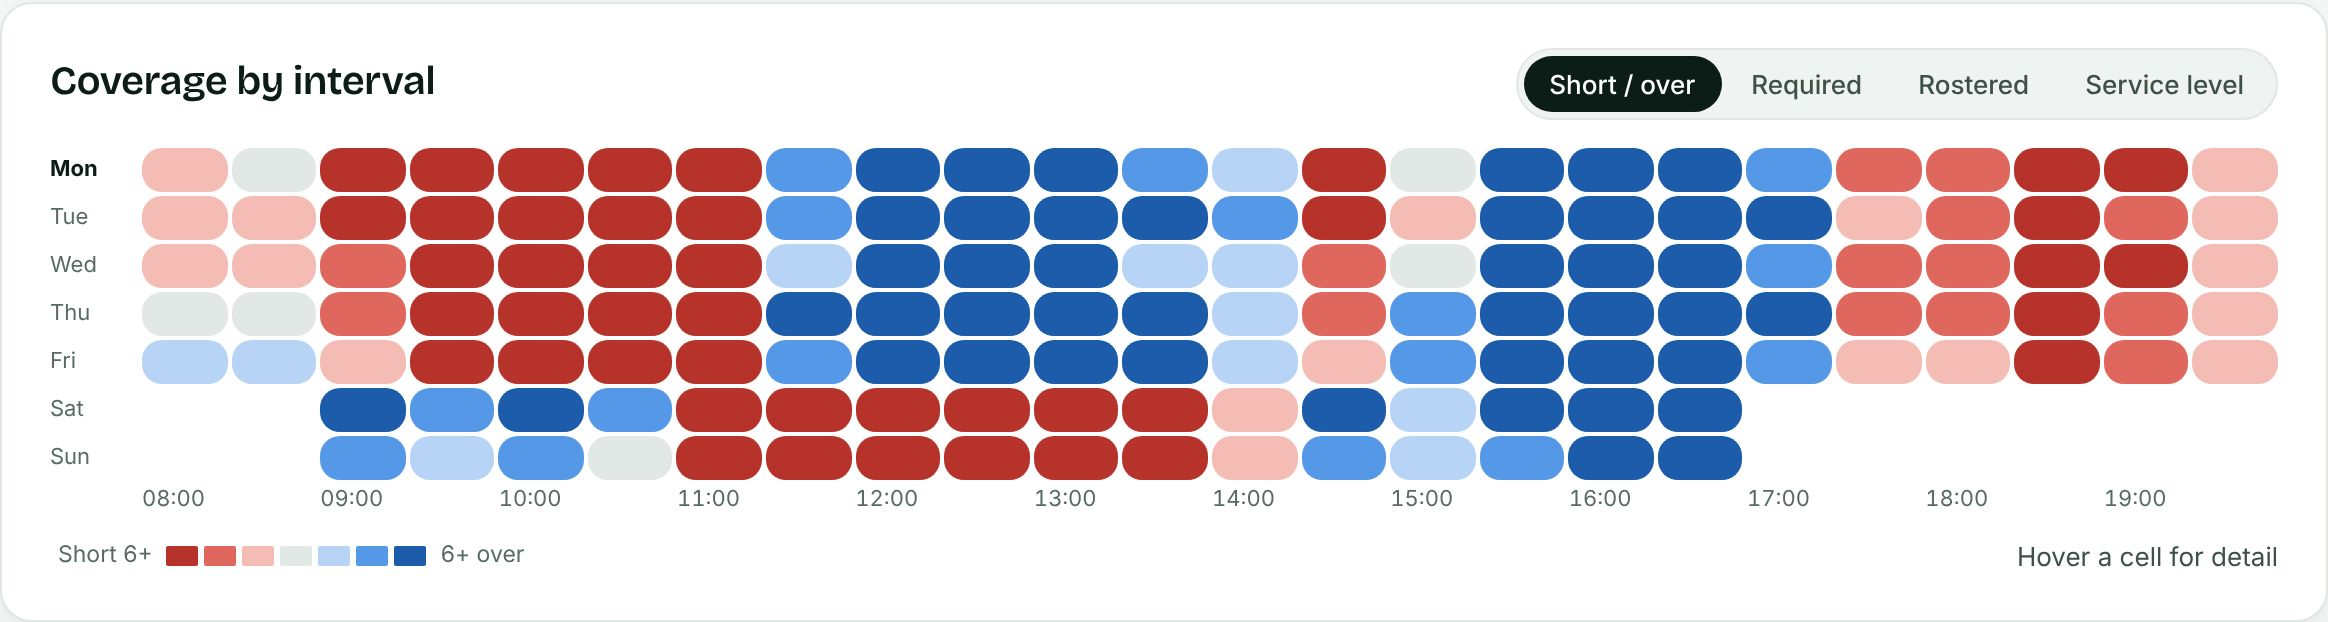
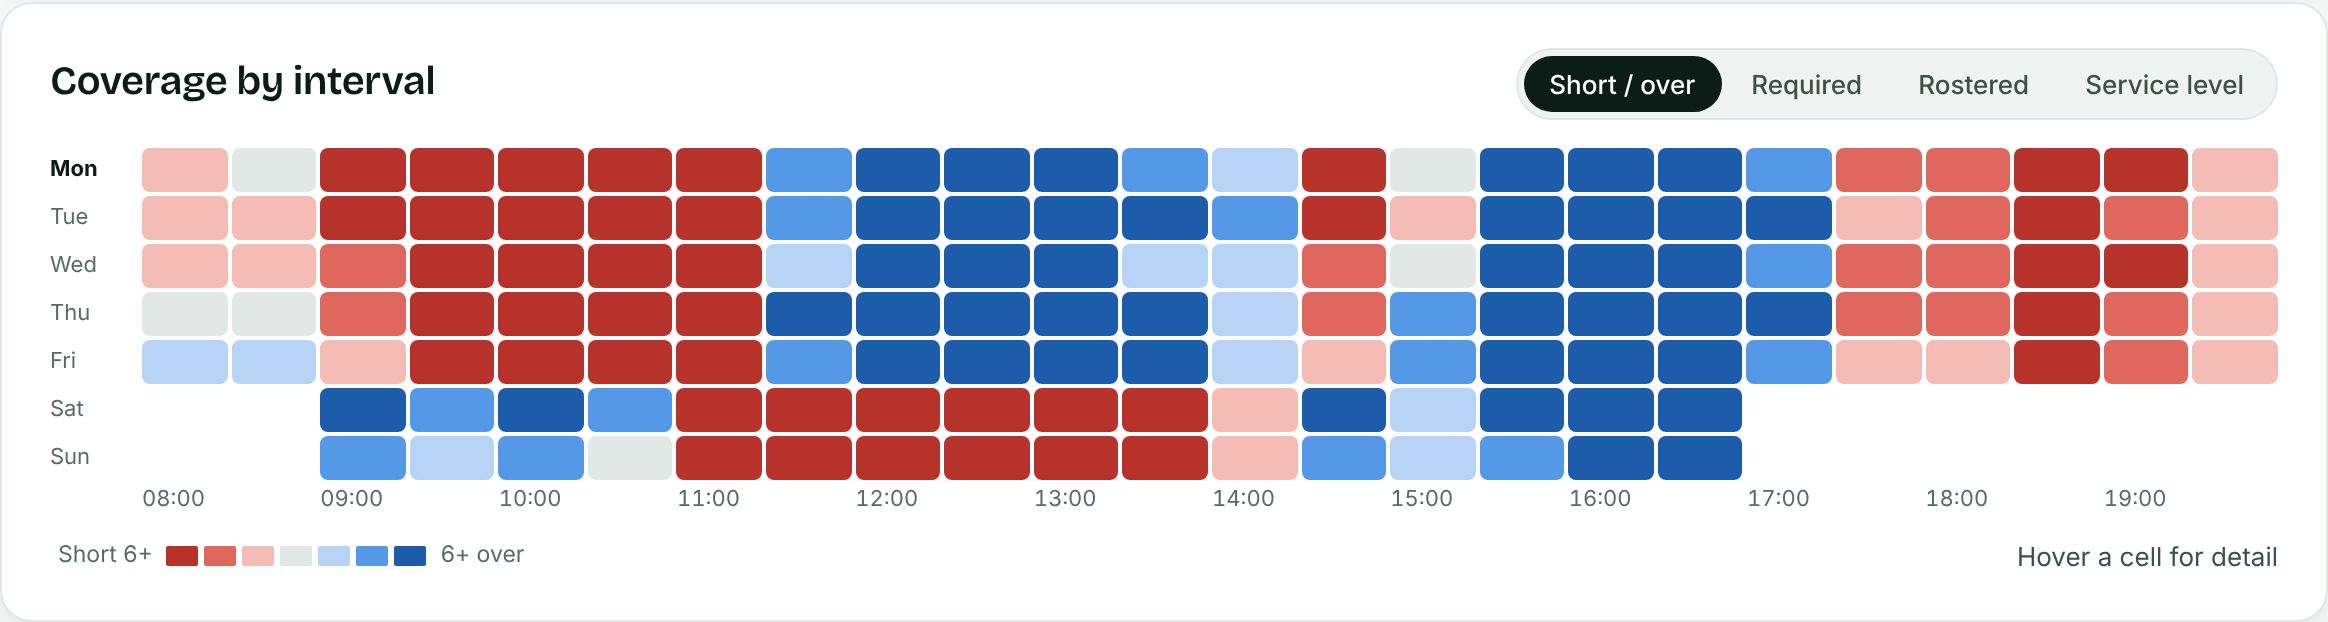
Erlang Desk: visual fixes after the redesign
- Heatmap cells, legend keys, timeline bars and checklist ticks are
  square-cornered again; the large radius had turned them into pills.
- Dates and numbers always read the UK way (16 Nov 2026), whatever the
  browser's locale.
- A bias that rounds to zero shows 0.0%, never '-0.0%'.
- Long names in dropdowns end with an ellipsis.
- Tab switches stay on one line and scroll inside their panel on a phone;
  the phone tab bar's underline is straight.
- Change register: Driver and Status are left-aligned; unit column
  headings are capitalised.
- Landing: shorter label above the headline on phones; product captures
  regenerated.

Claude-Session: https://claude.ai/code/session_01NjFB6V3m4JFRtAFNWHL5Fn

diff --git a/erlang-desk/src/styles.css b/erlang-desk/src/styles.css
@@ -170,7 +170,7 @@ h1 { font-size: 38px; line-height: 1.06; font-weight: 500; letter-spacing: -0.03
 h2 { font-size: 20px; line-height: 1.25; font-weight: 600; letter-spacing: -0.015em; font-family: var(--display); font-variant-numeric: lining-nums tabular-nums; }
 h3 { font-size: 14.5px; line-height: 1.35; font-weight: 600; }
 p { margin: 0; }
-code { font: 12.5px var(--mono); background: var(--surface-2); border: 1px solid var(--rule); padding: 0 4px; border-radius: var(--r-s); }
+code { font: 12.5px var(--mono); background: var(--surface-2); border: 1px solid var(--rule); padding: 0 4px; border-radius: 5px; }
 .muted { color: var(--ink-2); }
 .faint { color: var(--muted); }
 .small { font-size: 13px; }
@@ -335,13 +335,13 @@ details p { margin-top: 10px; color: var(--ink-2); max-width: 70ch; }
 .legend span { display: inline-flex; align-items: center; gap: 7px; }
 .key-line { width: 16px; height: 2px; display: inline-block; }
 .key-band { width: 14px; height: 10px; display: inline-block; opacity: 0.25; }
-.key-block { width: 10px; height: 10px; display: inline-block; border-radius: var(--r-s); }
+.key-block { width: 10px; height: 10px; display: inline-block; border-radius: 3px; }
 .tooltip { position: absolute; pointer-events: none; z-index: 5; background: var(--surface); border: 1px solid var(--rule); border-radius: var(--r-s); padding: 9px 11px; font-size: 12.5px; min-width: 160px; box-shadow: var(--shadow); }
 .tooltip .tt-title { font-size: 12px; font-weight: 600; color: var(--muted); margin-bottom: 6px; }
 .tooltip .tt-row { display: flex; align-items: center; gap: 8px; justify-content: space-between; padding: 1px 0; }
 .tooltip .tt-row b { font-weight: 650; font-variant-numeric: tabular-nums; }
 .heat { display: grid; gap: 2px; font-size: 11px; }
-.heat .cell { height: 22px; border-radius: var(--r-s); }
+.heat .cell { height: 22px; border-radius: 4px; }
 .heat .lab { color: var(--muted); display: flex; align-items: center; font-size: 11px; font-variant-numeric: tabular-nums; }
 .scale { display: flex; align-items: center; gap: 3px; font-size: 11.5px; color: var(--muted); }
 .scale i { width: 16px; height: 10px; display: inline-block; border-radius: 1px; }
@@ -453,9 +453,9 @@ textarea:focus-visible { outline: 2px solid var(--accent); outline-offset: 2px; 
 input.slider { padding: 0; border: 0; background: none; height: 22px; accent-color: var(--accent); margin-top: 2px; }
 .status.even { color: var(--muted); }
 .spark { display: block; overflow: visible; }
-.timeline { position: relative; height: 12px; min-width: 160px; border-radius: var(--r-s); background: var(--surface-2); border: 1px solid var(--rule); }
+.timeline { position: relative; height: 12px; min-width: 160px; border-radius: 4px; background: var(--surface-2); border: 1px solid var(--rule); }
 .timeline i { position: absolute; top: 0; bottom: 0; width: 1px; background: var(--rule-2); }
-.timeline b { position: absolute; top: 1px; bottom: 1px; border-radius: var(--r-s); background: var(--accent); opacity: 0.75; }
+.timeline b { position: absolute; top: 1px; bottom: 1px; border-radius: 3px; background: var(--accent); opacity: 0.75; }
 .attention { list-style: none; margin: 0; padding: 0; }
 .attention li { display: grid; grid-template-columns: 22px minmax(0, 1fr) minmax(0, 1.9fr) 96px 112px 150px; gap: 14px; align-items: center; padding: 12px 0; border-bottom: 1px solid var(--rule); }
 .attention .who, .attention .what { display: flex; flex-direction: column; gap: 2px; min-width: 0; }
@@ -562,7 +562,7 @@ select:disabled, input:disabled { opacity: 0.55; cursor: not-allowed; }
 .tour .btn.link { color: var(--board-muted); }
 .tour-top { display: flex; justify-content: space-between; align-items: center; }
 .tour-dots { display: flex; gap: 5px; margin: 12px 0 10px; }
-.tour-dots i { width: 18px; height: 3px; border-radius: var(--r-s); background: var(--board-rule); }
+.tour-dots i { width: 18px; height: 3px; border-radius: 2px; background: var(--board-rule); }
 .tour-dots i.on { background: #fff; }
 @media print { .tour { display: none; } }
 
@@ -610,7 +610,7 @@ td.bad { color: var(--critical-ink); }
 .checklist li { display: grid; grid-template-columns: 22px minmax(0, 1fr); gap: 10px; align-items: baseline; padding: 9px 0; border-top: 1px solid var(--rule); }
 .checklist li:first-child { border-top: 0; padding-top: 0; }
 .checklist li:last-child { padding-bottom: 0; }
-.checklist .tick { width: 18px; height: 18px; border: 1px solid var(--rule-2); border-radius: var(--r-s); display: grid; place-items: center; font-size: 12px; font-weight: 700; align-self: start; margin-top: 2px; }
+.checklist .tick { width: 18px; height: 18px; border: 1px solid var(--rule-2); border-radius: 5px; display: grid; place-items: center; font-size: 12px; font-weight: 700; align-self: start; margin-top: 2px; }
 .checklist li.done .tick { border-color: var(--good-ink); color: var(--good-ink); }
 .checklist li.done a { color: var(--ink-2); }
 .checklist li.next a { font-weight: 600; }
@@ -622,6 +622,12 @@ h1 strong, h2 strong { font-weight: 700; }
 .side { background: var(--surface); }
 .nav a { border-radius: var(--r-s); }
 input, select, textarea { border-radius: var(--r-s); }
+select { text-overflow: ellipsis; }
+.seg { max-width: 100%; overflow-x: auto; scrollbar-width: none; }
+.panel-head > *, .page-head > *, .main .row > * { min-width: 0; max-width: 100%; }
+.seg button { white-space: nowrap; flex: none; }
+@media (max-width: 900px) { .nav a { border-radius: 0; } }
+@media (max-width: 560px) { .hide-xs { display: none; } }
 .btn { transition: background 0.15s, border-color 0.15s, color 0.15s, transform 0.1s; }
 .btn:active { transform: translateY(1px); }
 .btn:not(.link):not(.sm) { padding: 12px 20px; }

diff --git a/erlang-desk/src/pages/ForecastPage.jsx b/erlang-desk/src/pages/ForecastPage.jsx
@@ -7,7 +7,7 @@ import { toCSV } from '../engine/csv.js'
 import { CHANNELS } from '../engine/channels.js'
 import { PageHead, Figures, Figure, SelectField, NumberField, Segmented, Panel, Locked, LoadingPage } from '../components/ui.jsx'
 import { LineChart, Legend, Heatmap } from '../components/charts.jsx'
-import { downloadText, fmtInt, fmtPct } from '../format.js'
+import { downloadText, fmtInt, fmtPct, fmtSignedPct } from '../format.js'
 import { NoServices, NeedsHistory, serviceEyebrow } from './common.jsx'
 
 function byWeek(rows, keys) {
@@ -105,7 +105,7 @@ export default function ForecastPage({ active, site, result, updateActive, repla
         <Figure label="Method" value={forecast.methodLabel} text sub={plan.method === 'auto' ? 'Chosen by backtest' : 'Chosen by you'} />
         <Figure label="Backtest accuracy" value={forecast.accuracy ? fmtPct(1 - forecast.accuracy.wape) : '–'} sub={forecast.accuracy ? `WAPE ${fmtPct(forecast.accuracy.wape)} over ${forecast.accuracy.holdoutDays} days held out` : 'Not enough history'} />
         <Figure label="Next four weeks" value={fmtInt(next4)} sub={prior4 ? `${next4 >= prior4 ? '+' : '−'}${fmtPct(Math.abs(next4 / prior4 - 1))} on the last four` : undefined} />
-        <Figure label="Bias" value={forecast.accuracy ? `${forecast.accuracy.bias >= 0 ? '+' : '−'}${fmtPct(Math.abs(forecast.accuracy.bias))}` : '–'} sub="Positive means it over-forecast" />
+        <Figure label="Bias" value={forecast.accuracy ? fmtSignedPct(forecast.accuracy.bias) : '–'} sub="Positive means it over-forecast" />
       </Figures>
 
       <Panel title="Actuals and forecast" aside={<Segmented label="Granularity" value={grain} onChange={setGrain} options={[{ value: 'daily', label: 'Daily' }, { value: 'weekly', label: 'Weekly' }]} />}>
@@ -161,7 +161,7 @@ export default function ForecastPage({ active, site, result, updateActive, repla
                   <tr key={r.method} className={r.method === forecast.method ? 'hl' : ''}>
                     <td>{r.label}</td>
                     <td>{fmtPct(1 - r.wape)}</td>
-                    <td>{r.bias >= 0 ? '+' : '−'}{fmtPct(Math.abs(r.bias))}</td>
+                    <td>{fmtSignedPct(r.bias)}</td>
                   </tr>
                 ))}
               </tbody>

diff --git a/erlang-desk/src/pages/ImpactPage.jsx b/erlang-desk/src/pages/ImpactPage.jsx
@@ -314,15 +314,15 @@ function ChangeRegister({ ws, area, ctx, update, account }) {
       <Panel title="Change register" aside={<button className="btn sm primary" type="button" onClick={add}>Add a change</button>}>
         <div className="table-wrap">
           <table>
-            <thead><tr><th>Change</th><th>Driver</th><th>Status</th><th>Peak FTE</th><th>Assessment</th></tr></thead>
+            <thead><tr><th>Change</th><th className="text">Driver</th><th className="text">Status</th><th>Peak FTE</th><th>Assessment</th></tr></thead>
             <tbody>
               {changes.map((c) => {
                 const cr = results[c.id]
                 return (
                   <tr key={c.id} className={c.id === sel.id ? 'hl' : ''} onClick={() => setSelId(c.id)} style={{ cursor: 'pointer' }}>
                     <td><button className="btn link" type="button" onClick={() => setSelId(c.id)}>{c.name}</button>{c.inMtp && <span className="faint"> · in MTP</span>}</td>
-                    <td className="faint" style={{ whiteSpace: 'normal', minWidth: 220 }}>{driverSummary(c.driver)}</td>
-                    <td>{STATUS_LABEL[c.status]}</td>
+                    <td className="faint text" style={{ minWidth: 220 }}>{driverSummary(c.driver)}</td>
+                    <td className="text">{STATUS_LABEL[c.status]}</td>
                     <td>{cr.verdict === 'saving' ? `−${fmt1(cr.savingFte)}` : fmt1(cr.peakFte)}</td>
                     <td><Verdict v={cr.verdict} /></td>
                   </tr>

diff --git a/erlang-desk/src/format.js b/erlang-desk/src/format.js
@@ -1,6 +1,12 @@
-export const fmtInt = (n) => (Number.isFinite(n) ? Math.round(n).toLocaleString() : '–')
-export const fmt1 = (n) => (Number.isFinite(n) ? n.toLocaleString(undefined, { minimumFractionDigits: 1, maximumFractionDigits: 1 }) : '–')
+export const fmtInt = (n) => (Number.isFinite(n) ? Math.round(n).toLocaleString('en-GB') : '–')
+export const fmt1 = (n) => (Number.isFinite(n) ? n.toLocaleString('en-GB', { minimumFractionDigits: 1, maximumFractionDigits: 1 }) : '–')
 export const fmtPct = (n, d = 1) => (Number.isFinite(n) ? `${(n * 100).toFixed(d)}%` : '–')
+/** A signed percentage with no "−0.0%": values that round to zero show as 0.0%. */
+export const fmtSignedPct = (n, d = 1) => {
+  if (!Number.isFinite(n)) return '–'
+  const v = Number((n * 100).toFixed(d))
+  return `${v > 0 ? '+' : v < 0 ? '−' : ''}${Math.abs(v).toFixed(d)}%`
+}
 export const fmtSec = (n) => (Number.isFinite(n) ? `${n < 10 ? n.toFixed(1) : Math.round(n)}s` : '∞')
 export function fmtCompact(n) {
   if (!Number.isFinite(n)) return '–'

diff --git a/erlang-desk/src/pages/StaffingPage.jsx b/erlang-desk/src/pages/StaffingPage.jsx
@@ -156,7 +156,7 @@ export default function StaffingPage({ active, site, result, replace, account })
         />
         <div className="table-wrap scroll-y" tabIndex={0} role="region" aria-label="Interval detail" style={{ marginTop: 18 }}>
           <table>
-            <thead><tr><th>Interval</th><th>{unit}</th><th><Term k="aht">AHT</Term></th><th>Staff</th><th>Rostered</th><th><Term k="service-level">Service level</Term></th>{isA && <th><Term k="abandonment">Abandon</Term></th>}<th><Term k="occupancy">Occupancy</Term></th></tr></thead>
+            <thead><tr><th>Interval</th><th>{unit[0].toUpperCase() + unit.slice(1)}</th><th><Term k="aht">AHT</Term></th><th>Staff</th><th>Rostered</th><th><Term k="service-level">Service level</Term></th>{isA && <th><Term k="abandonment">Abandon</Term></th>}<th><Term k="occupancy">Occupancy</Term></th></tr></thead>
             <tbody>
               {dayCols.map((iv) => (
                 <tr key={iv.time}>

diff --git a/erlang-desk/src/pages/CoveragePage.jsx b/erlang-desk/src/pages/CoveragePage.jsx
@@ -260,7 +260,7 @@ export default function CoveragePage({ active, site, result, updateActive, repla
         />
         <div className="table-wrap scroll-y" tabIndex={0} role="region" aria-label="Interval detail" style={{ marginTop: 16 }}>
           <table>
-            <thead><tr><th>Interval</th><th>{unit}</th><th>Required</th><th>On shift</th><th>Rostered (net)</th><th>Gap</th><th>Projected SL</th>{s.queueModel === 'erlangA' && <th><Term k="abandonment">Abandon</Term></th>}</tr></thead>
+            <thead><tr><th>Interval</th><th>{unit[0].toUpperCase() + unit.slice(1)}</th><th>Required</th><th>On shift</th><th>Rostered (net)</th><th>Gap</th><th>Projected SL</th>{s.queueModel === 'erlangA' && <th><Term k="abandonment">Abandon</Term></th>}</tr></thead>
             <tbody>
               {dayCols.map((iv) => (
                 <tr key={iv.time}>

diff --git a/erlang-desk/test/store.test.js b/erlang-desk/test/store.test.js
@@ -39,3 +39,18 @@ test('round-trips a normal workspace', () => {
   assert.equal(back.services[0].siteId, 'offshore')
   assert.equal(back.services[0].settings.branches, 25)
 })
+
+test('signed percentages never show a negative zero', async () => {
+  const { fmtSignedPct } = await import('../src/format.js')
+  assert.equal(fmtSignedPct(-0.0002), '0.0%')
+  assert.equal(fmtSignedPct(0), '0.0%')
+  assert.equal(fmtSignedPct(0.0372), '+3.7%')
+  assert.equal(fmtSignedPct(-0.08), '−8.0%')
+  assert.equal(fmtSignedPct(NaN), '–')
+})
+
+test('dates read the UK way whatever the browser locale', async () => {
+  const { formatDate } = await import('../src/engine/dates.js')
+  assert.equal(formatDate('2026-11-16'), '16 Nov')
+  assert.equal(formatDate('2026-11-16', { day: 'numeric', month: 'short', year: 'numeric' }), '16 Nov 2026')
+})

diff --git a/erlang-desk/src/pages/Landing.jsx b/erlang-desk/src/pages/Landing.jsx
@@ -142,7 +142,7 @@ export default function Landing({ onToggleTheme, account }) {
       <main id="main" tabIndex={-1}>
       <section className="lp-hero">
         <div className="wrap">
-          <div className="label">Workforce planning · Voice · Chat · Back office · Branch</div>
+          <div className="label">Workforce planning<span className="hide-xs"> · Voice · Chat · Back office · Branch</span></div>
           <h1>The right number of people, <strong>every half hour.</strong></h1>
           <p className="lede">Forecast, staff and hire for your contact centre, from one plan.</p>
           <div className="ctas">

diff --git a/erlang-desk/src/engine/dates.js b/erlang-desk/src/engine/dates.js
@@ -49,5 +49,5 @@ export function formatTime(mins) {
 }
 
 export function formatDate(iso, opts = { day: 'numeric', month: 'short' }) {
-  return new Date(parseISODate(iso)).toLocaleDateString(undefined, { timeZone: 'UTC', ...opts })
+  return new Date(parseISODate(iso)).toLocaleDateString('en-GB', { timeZone: 'UTC', ...opts })
 }
